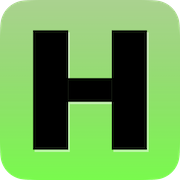
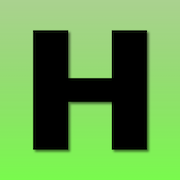
アイコンの影を黒くした

diff --git a/versions.html b/versions.html
@@ -1,8 +1,8 @@
 <!DOCTYPE html>
 <html lang="ja">
 <head>
-    <link rel="icon" href="./favicon.ico">
-    <link rel="apple-touch-icon" sizes="50x50" href="./apple-touch-icon-180x180.png">
+    <link rel="icon" href="./icon/favicon.ico">
+    <link rel="apple-touch-icon" sizes="180x180" href="./icon/apple-touch-icon.png">
     <meta name="robots" content="noindex" />
     <meta charset="UTF-8">
     <meta http-equiv="X-UA-Compatible" content="IE=edge">

diff --git a/404.html b/404.html
@@ -1,8 +1,8 @@
 <!DOCTYPE html>
 <html lang="ja">
 <head>
-    <link rel="icon" href="./favicon.ico">
-    <link rel="apple-touch-icon" sizes="50x50" href="./apple-touch-icon-180x180.png">
+    <link rel="icon" href="./icon/favicon.ico">
+    <link rel="apple-touch-icon" sizes="50x50" href="./icon/apple-touch-icon.png">
     <meta name="robots" content="noindex" />
     <meta charset="UTF-8">
     <meta http-equiv="X-UA-Compatible" content="IE=edge">
